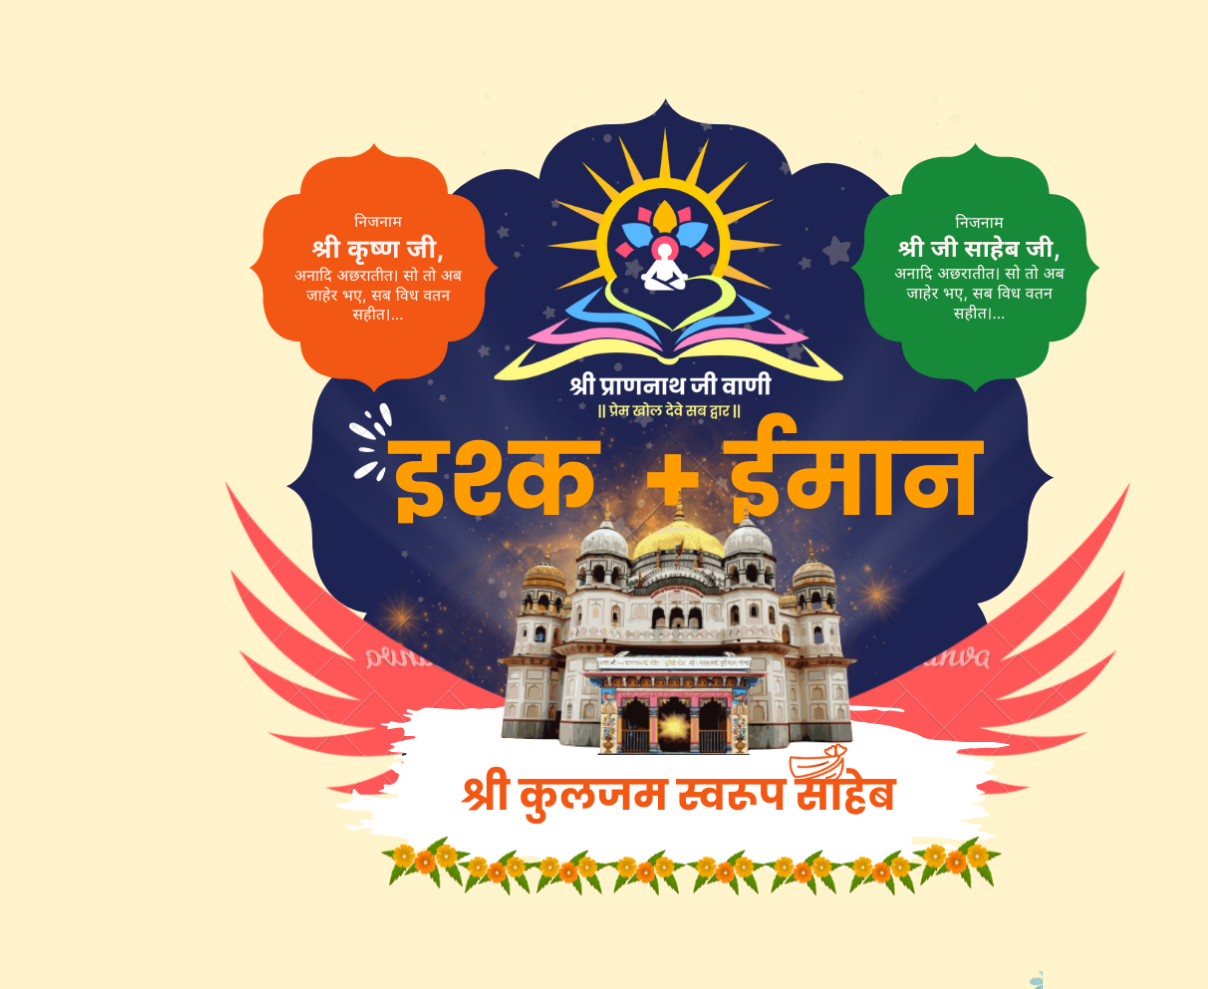
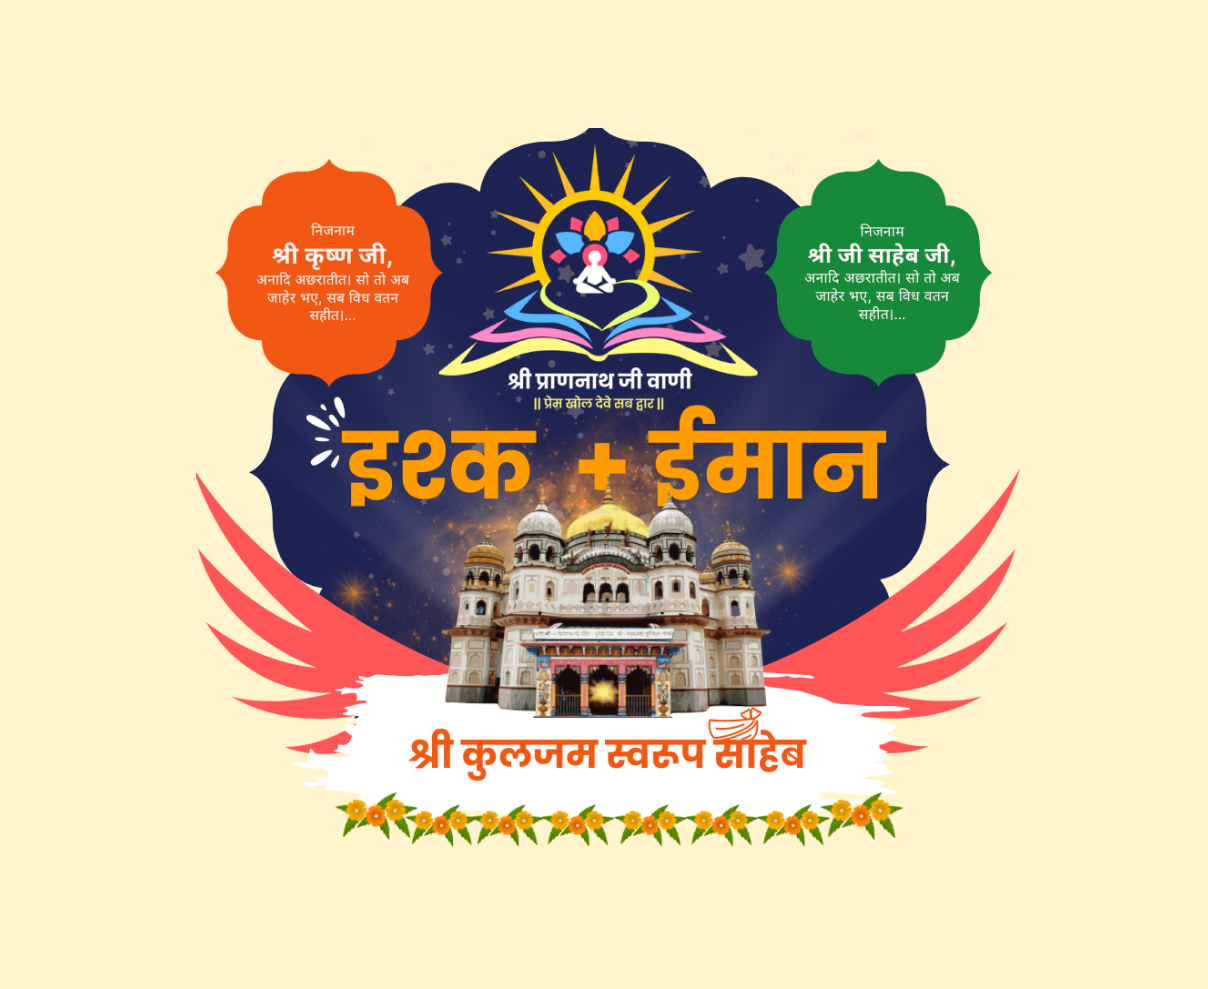
updated css and images

diff --git a/index.html b/index.html
@@ -121,8 +121,6 @@
                                     <br>
                                     <p>अब <span class="h-s-text">समया</span> आया <span class="h-s-text">रेहेनीय</span> का, रूह फैल को चाहे। <br> जो होवे असल अर्स की, <span class="h-s-text">सो फैल ले हाल देखाए ||</span> </p>
                                     <p>इनमें रूह होए जो <span class="h-s-text">अर्स की</span>, सो क्यों रहे <span class="h-s-text">दुनी सों मिल ।</span> <br> कौल फैल हाल तीनों जुदे, यामें होए ना <span class="h-s-text">चल विचल ||</span> </p>
-                                   
-                                   
                                     <button class="btn btn-primary slider-btn"> अधिक
                                         जानिए <i data-feather="arrow-right"></i></button>
                                 </div>

diff --git a/assets/css/theme.css b/assets/css/theme.css
@@ -285,13 +285,14 @@ hr {
   content: '';
   background-image: url('../img/home_slider_bg.svg');
   position: absolute;
-  right: -15rem;
-  height: 130%;
+  right: -7rem;
+  height: 100%;
   background-repeat: no-repeat;
   background-position: right;
   background-size: contain;
-  width: 100%;
+  width: 274px;
   z-index: -1;
+  transform: scale(1);
 }
 
 .slider-caption h5 {
@@ -2550,6 +2551,9 @@ button.slick-next.slick-arrow svg {
 /* ALL media query  */
 /* Media Query for Mobile Devices */
 @media (max-width: 480px) {
+  #sliderspjv .carousel-control-next, #sliderspjv .carousel-control-prev{
+    width: 16%;
+  }
   .slider-caption::before{
     content: none;
   }
@@ -2577,6 +2581,7 @@ button.slick-next.slick-arrow svg {
 
   .slider-caption {
     padding: 1rem 2rem;
+    min-height: 576px;
   }
 
   .common-section {
@@ -2615,7 +2620,7 @@ button.slick-next.slick-arrow svg {
     transform: translate(0%, 0%);
   }
   #sliderspjv .order-2 img{
-    height: 200px;
+    height: auto;
   }
   .quicklinks {
     padding: 2rem 1rem;
